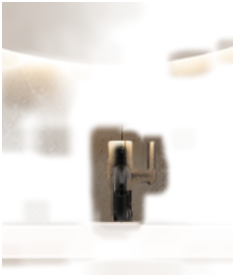
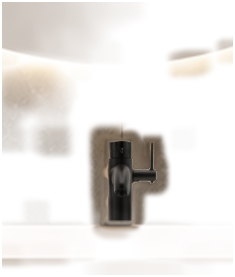
Umývadlová batéria na obkladoch bez dvojitého zmenšenia
- @obklad výsledky zo vstupu so zmenšenou batériou majú vo vysledky.json
  zmensene: true (zapíše generuj), zostav ich druhýkrát nezmenšuje
  (ostával svetlý obrys batérie s rozmazanou čiernou škvrnou)
- Set-ScaledCleanup: batéria zo vstupu generácie, kde ju model nakreslil
  väčšiu (Graphit) alebo prekreslil páku, uvoľnená stena
- PRAVIDLA: kontrola zväčšeného výrezu umývadlovej batérie, nové chyby

Changed region(s): [[0.3872, 0.491, 0.6851, 0.8664]]

diff --git a/PRAVIDLA.md b/PRAVIDLA.md
@@ -44,6 +44,7 @@ Porovnať výsledok s pôvodnou vizualizáciou vo výrezoch 1:1, nie v celom obr
 - `zostav.ps1 -Ladenie <priečinok>` (v scratchpade): prejsť masky aj `kombinacia-*.jpg`.
 - `python demo\kontrola.py zostava` (alebo `-k baterie umyvadlo`): každý variant na všetkých štyroch obkladoch (pôvodný, Calacatta, Graphit, Travertine) v zväčšených výrezoch, poskladaný ako stránka. `-k obklad` ukáže oblasti kontrolného zoznamu (doplnky, pás za žľabom, zrkadlo…) na každom obklade, `--vyber dlazba=…` pridá inú dlažbu.
 - Prepínať obklady pri tej istej batérii a umývadle: veľkosť a poloha sa nesmú zmeniť. Rovnako čierna a bronzová batéria.
+- Umývadlová batéria je v celom výreze kategórie malá: `kontrola.py zostava -k baterie --oblast bateria-umyvadlo` (zväčšený výrez). Celá batéria vrátane páky musí mať na každom obklade rovnaký tvar a farbu, bez svetlého obrysu.
 - Každé umývadlo celé až po konce (široké Savoy zasahuje k doplnkom).
 - Výpis `object changed by …` (ako veľmi AI zmenila vložený prvok) a varovania `has no result` / `Layer … is empty`.
 - `python demo\kontrola.py stranka`: screenshoty v 1440 a 390 px, rozbité obrázky, chyby v konzole, chýbajúce súbory. Pozrieť aj mobil.
@@ -85,6 +86,8 @@ Porovnať výsledok s pôvodnou vizualizáciou vo výrezoch 1:1, nie v celom obr
 | Umývadlová batéria asi 1,5× väčšia ako pôvodná (výška aj hrúbka tela) | prompt žiadal Tecturis S 240 Fine („240“ = vysoká verzia) | `mierka` variantu: batéria sa zmenší 0,67× okolo bodu, kde stojí na polici, na miesto pôvodnej; stena za ňou z `prazdne-baterie` prefarbená na obklad (podklad obkladu má pôvodnú batériu o pár px inde, kľúč umývadla je o ~13 px vyššie ako hrana misy → `okraj`) |
 | Odraz v zrkadle s pôvodným obkladom | prompt obkladu držal „the round mirror and its reflection“ | `zrkadlo@<obklad>` (odraz prekreslený na obklade bez doplnkov), zo zrkadlovej generácie sa berie len vnútro zrkadla |
 | **Obklady v 4K zrnité, „horšie ako prvá 1K verzia“** (kolega 14. 10.) | model v 4K kreslil kameň ako reliéf so svetlými zrnkami, travertín ako vystúpené vlny; referenčné fotky majú len 640 px; v 1K na reliéf nemal rozlíšenie | prompt rovnej hladkej platne + obklady a všetko na nich v 2K (kolega vybral 15. 10. z testu 1K / 4K / 4K a 2K s novým promptom); povrch obkladu je v kontrolnom zozname |
+| **Umývadlová batéria na Calacatte, Graphite a Travertine: svetlý obrys s rozmazanou čiernou škvrnou** (používateľ 15. 10., po pregenerovaní obkladov v 2K) | vstup `@obklad` už mal zmenšenú batériu (`mierka`), `zostav` ju zmenšil druhýkrát; kontrola po zostavení pozerala celý výrez batérií, kde je umývadlová batéria malá | `zmensene: true` vo `vysledky.json` → bez druhého zmenšenia; kontrola v kroku 3 aj s `--oblast bateria-umyvadlo` |
+| Batéria na Graphite väčšia ako na ostatných obkladoch, svetlá páka | model pri dočistení batériu zväčšil (~1,2×) a páku prekreslil; jadro sa obnovuje len vnútri, tenká páka doň nepatrí | `Set-ScaledCleanup`: batéria zo vstupu generácie, zväčšený okraj nahradí uvoľnená stena |
 | Zvyšok starej misy vedľa Savoy (Travertine), schodík na polici (Graphite) | nie výrez doplnkov (pôvodný odhad), ale samotná AI: úzky pruh starej misy vedľa širokej Savoy nechala ako dizajn, pri tmavej stene prefarbila zadný okraj police do teplej | `pozadieZ`: miesto po starej mise mimo Savoy z výsledku užšieho okrúhleho umývadla na tom istom obklade; `polica` už od zadnej hrany police |
 
 ## 6. Zámerné rozhodnutia (nemeniť bez dohody)
@@ -98,7 +101,7 @@ Porovnať výsledok s pôvodnou vizualizáciou vo výrezoch 1:1, nie v celom obr
 
 ## 7. Otvorené chyby
 
-Žiadne. Chyby nahlásené 14. 10. 2026 (pás za žľabom, odraz v zrkadle, veľkosť batérie, konce Savoy, zrnité obklady) sú opravené, pozri tabuľku v časti 5. Kontrola v kroku 2 a 3 preto zahŕňa aj pás podlahy za žľabom, odraz v zrkadle, veľkosť batérie voči pôvodnej, konce širokého umývadla a povrch obkladu.
+Žiadne. Chyby nahlásené 14. 10. 2026 (pás za žľabom, odraz v zrkadle, veľkosť batérie, konce Savoy, zrnité obklady) a 15. 10. 2026 (umývadlová batéria na nových obkladoch) sú opravené, pozri tabuľku v časti 5. Kontrola v kroku 2 a 3 preto zahŕňa aj pás podlahy za žľabom, odraz v zrkadle, veľkosť batérie voči pôvodnej, zväčšený výrez umývadlovej batérie, konce širokého umývadla a povrch obkladu.
 
 Poznámky k zrnitosti obkladov (pre prípad, že sa vráti): zrnitosť bola už v surovom 4K výstupe, JPEG na stránke sa od neho takmer nelíšil. Vysokofrekvenčná energia steny Graphit pri zobrazení 1440 px: 4K kie 6,4, 1K 4,4, pôvodná vizualizácia 2,2. Stlmenie filtrom (frekvenčné oddelenie, 30 %) zrnká zmierni, reliéf nie. Test promptu je vo `vystupy\test-obklad\` (zmenil sa prompt aj model naraz).
 
@@ -109,6 +112,8 @@ Poznámky k zrnitosti obkladov (pre prípad, že sa vráti): zrnitosť bola už 
 - Slabé čiary po starých prvkoch sú viditeľné až pri asi 4× zväčšení.
 - Pravý okraj Savoy na Graphite a Travertine má pri zväčšení tenký svetlejší lem (AI ju na obklade nakreslila o pár px širšiu, jadro sa obnovuje len vnútri).
 - Okolo batérie na pôvodnom obklade je slabo svetlejší obdĺžnik (AI prekreslila stenu, vrstva ju čiastočne berie).
+- V okrúhlom umývadle je pod batériou na vnútornej stene misy svetlejší pás. Je tam aj s pôvodnou chrómovou batériou, nakreslil ho model pri generovaní umývadla.
+- Pri rozete sifónu na Graphite a Travertine slabý svetlý oblúk starej chrómovej rozety (viditeľný až pri ~3× zväčšení). Na Graphite pri 4× zväčšení tenký svetlý prúžok vľavo od tela umývadlovej batérie.
 
 ## 9. Prostredie
 

diff --git a/CLAUDE.md b/CLAUDE.md
@@ -50,7 +50,7 @@ Pred každou generáciou a po nej postupovať podľa kontrolného zoznamu a zozn
 - Dlažba: každá generácia dlažby prekreslí žľab (dlhší, cez pás podlahy pri stene) a grafitový žľab je širší ako pôvodný → `bezObjektov: ["zlab"]` + `pas` žľabu: vo vrstvách dlažby je pás od steny po prednú hranu žľabu celý dlažba (riadky spod neho posunuté nahor), každý žľab má vrstvu len s kovom (rozdiel voči podkladu s pásom vyplneným dlažbou), aj pôvodný (vrstva možnosti „pôvodný“). Maska dlažby len z rozdielu voči podkladu vynechala tieň pod policou (stará a nová dlažba tam majú podobný tón, presvitala pôvodná) → `kluc: "kluc-dlazba"` (podlaha natretá na zeleno) dáva vnútro plochy, rozdiel len okraje.
 - Doplnky na polici (váza, difuzér, mydlo, podnos) každá generácia obkladu prekreslí a zdeformuje → `doplnky` vo `varianty.json`: AI ich z každého obkladu len odstráni (`prazdne-doplnky@<obklad>`) a `zostav` vloží pôvodné (rozdiel voči `prazdne-doplnky`, obrysy skla z `kluc-doplnky`), prefarbené pixel po pixeli z prázdneho podkladu na prázdny obklad; umývadlá (`bezDoplnkov`) túto oblasť nechajú pozadiu. Vloženie + dočistenie okolia cez AI (ako pri batériách) tu nefungovalo: dokresľovala druhý podnos a vetvičku.
 - Umývadlová batéria má smerovať výtokom k divákovi (ako pôvodná chrómová); podľa produktovej fotky ju model otočí bokom. `baterie-black` = otočenie na pomocnom `baterie-black-sifon` (prefarbený sifón) ← `baterie-black-zaklad`. `stlpec` pri umývadle vyreže batériu nad okrajom misy (misa je navrchu, batéria za ňou).
-- Veľkosť umývadlovej batérie = pôvodná: model nakreslil Tecturis S 240 Fine ~1,5× väčšiu (výška aj hrúbka tela) → `mierka` pri `baterie-black`/`baterie-bronze` ju pri načítaní variantu aj `@obklad` výsledkov zmenší 0,67× okolo bodu na polici a posunie na miesto pôvodnej (`zostav` aj vstupy `generuj`, bez generovania). Uvoľnená stena = `prazdne-baterie` prefarbené na stenu obkladu okolo (podklad obkladu má pôvodnú batériu o pár px inde); od riadku `okraj` stojí pred batériou zadná hrana misy (zelený kľúč umývadla je ~13 px vyššie).
+- Veľkosť umývadlovej batérie = pôvodná: model nakreslil Tecturis S 240 Fine ~1,5× väčšiu (výška aj hrúbka tela) → `mierka` pri `baterie-black`/`baterie-bronze` ju pri načítaní variantu aj `@obklad` výsledkov zmenší 0,67× okolo bodu na polici a posunie na miesto pôvodnej (`zostav` aj vstupy `generuj`, bez generovania). Uvoľnená stena = `prazdne-baterie` prefarbené na stenu obkladu okolo (podklad obkladu má pôvodnú batériu o pár px inde); od riadku `okraj` stojí pred batériou zadná hrana misy (zelený kľúč umývadla je ~13 px vyššie). `@obklad` výsledky vygenerované zo vstupu, ktorý už mal zmenšenú batériu, majú vo `vysledky.json` `zmensene: true` (zapíše `generuj`) a `zostav` ich druhýkrát nezmenšuje (inak ostane svetlý obrys batérie s malou čiernou škvrnou). Namiesto toho `Set-ScaledCleanup`: batéria sa vezme zo vstupu (správna veľkosť, okraje prefarbené na obklad) a kde ju model nakreslil väčšiu (Graphit, ~1,2×), dá sa uvoľnená stena.
 - Savoy na obkladoch: AI nechala vedľa jej pravého konca pruh starej misy → `pozadieZ: "umyvadlo-okruhle"` – miesto po starej mise mimo Savoy sa vezme z výsledku užšieho okrúhleho umývadla na tom istom obklade. Polica (`polica` 0,6485) sa berie z variantu už od zadnej hrany (pri Graphite ju AI prefarbila do teplej).
 - Zrkadlo: generácie obkladu nechali v odraze pôvodný obklad → `zrkadlo` vo `varianty.json`: `zrkadlo@<obklad>` = odraz prekreslený na obklade bez doplnkov; `zostav` vezme vnútro zrkadla (`elipsa`, kruh r = 388 px so stredom 1652, 990). Pozadie doplnkov je `prazdne-doplnky@<obklad>` s tým istým vnútrom zrkadla (váza stojí pred ním): zrkadlová generácia dostáva fotku obkladu a prekreslí celú stenu iným vzorom, preto sa z nej mimo zrkadla nič neberie.
 - `index.html` funguje otvorený priamo zo súboru (bez servera); obrázky sa načítajú až pri zobrazení, zvyšok sa prednačíta. Stránka má byť bez vysvetľujúcich textov („čím menej textov, tým lepšie“), bez galérie testov a bez porovnania s pôvodnou. Headless Edge z príkazového riadka má minimálnu šírku okna ~500 px a mobilný screenshot oreže; `kontrola.py stranka` (Playwright) nie.
